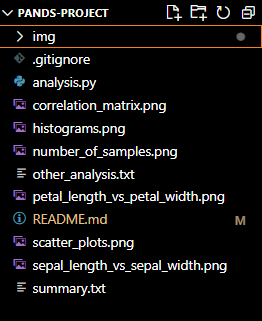
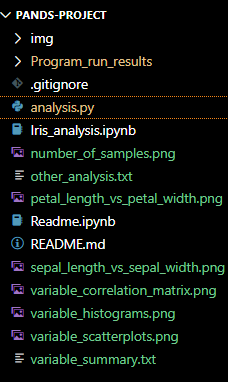
Improving the main code,  Editing the README file

diff --git a/analysis.py b/analysis.py
@@ -17,10 +17,18 @@ data.columns = ['sepal_length', 'sepal_width', 'petal_length', 'petal_width', 's
 ## Define a color palette
 palette = {'setosa': 'red', 'versicolor': 'green', 'virginica': 'blue'}                      # Define colors for each species using dictionary.
 
-## Save a summary of each variable to a text file.
+## Save a summary of each variable (combined and separate) to a text file.
 with open('variable_summary.txt', 'w') as f:                  # Generates a file named 'variable_summary.txt' on write mode.
-    f.write('Summary of each variable:\n\n')                  # Write a header to the file.
+    f.write('**** Iris Data Set Analysis ****\n\n')           # Write a header to the file.
+    f.write('Overall Summary:\n\n')                           # Write a header to the file.
     f.write(data.describe().to_string())                      # Write the summary statistics to the file.
+    f.write('\n\nSummary Of Each Variable:\n\n')              # Write a header to the file.
+    for column in data.columns[:-1]:                          # Iterate over each feature (column) in data DataFrame.
+        f.write('Variable: {}\n'.format(column))                         # Write the name of the variable to the file.
+        f.write('Minimum value: {}\n'.format(data[column].min()))        # Write the minimum value of the variable to the file.
+        f.write('Maximum value: {}\n'.format(data[column].max()))        # Write the maximum value of the variable to the file.
+        f.write('Mean value: {}\n'.format(data[column].mean()))          # Write the mean value of the variable to the file.
+        f.write('Standard deviation: {}\n\n'.format(data[column].std())) # Write the standard deviation value of the variable to the file.
 
 ## Save a histogram (colors for each species) of each variable to a png file.
 fig, axes = plt.subplots(2, 2, figsize=(10,10))               # Create a 2x2 grid of subplots.

diff --git a/README.md b/README.md
@@ -11,11 +11,11 @@ Author: Galal Abdelaziz
 
 ***
 
-### Introduction:
+### Summary:
 
 The __Iris dataset__ is one of the most well-known and commonly used datasets in the field of machine learning and statistics. Here's an overview:
 
-* The Iris dataset consists of __150 samples__ of iris flowers from three different species: __Setosa__, __Versicolor__, and __Virginica__.
+* The Iris dataset consists of __150 samples__ of iris flowers from three different species: [Setosa](https://en.wikipedia.org/wiki/Iris_setosa), [Versicolor](https://en.wikipedia.org/wiki/Iris_versicolor), and [Virginica](https://en.wikipedia.org/wiki/Iris_virginica).
 
 * Each sample includes __four features__:
 
@@ -34,7 +34,7 @@ The target variable represents the species of the iris flower and has three clas
 
 * Notes:
 
-    * The dataset was introduced by the British biologist and statistician __Ronald Fisher__ in 1936 as an example of __discriminant analysis__.
+    * The dataset was introduced by the British biologist and statistician [Ronald Fisher](https://en.wikipedia.org/wiki/Ronald_Fisher) in 1936 as an example of [discriminant analysis](https://en.wikipedia.org/wiki/Linear_discriminant_analysis).
     * Researchers and data scientists use the features of the iris flowers to classify each sample into one of the three species.
     * The dataset is particularly popular due to its __simplicity__ and the __clear separation__ of the different species based on the provided features.
 
@@ -46,7 +46,7 @@ The target variable represents the species of the iris flower and has three clas
 
 * Role in Machine Learning:
 
-    * The Iris dataset serves as a standard benchmark for testing __classification algorithms__.
+    * The Iris dataset serves as a standard benchmark for testing [classification algorithms](https://en.wikipedia.org/wiki/Statistical_classification#Algorithms).
     * Researchers use it to compare the performance of different algorithms and evaluate their accuracy, precision, and recall.
 
 ***
@@ -115,10 +115,10 @@ The Iris dataset contains two types of variables:
 
 ### Libraries:
 
-* __Pandas__: Imported the pandas library for data manipulation.
-* __Seaborn__: Imported the seaborn library for visualization.
-* __Matplotlib.pyplot__: Imported the matplotlib library for visualization.
-* __Warnings__: Imported the warnings library to suppress a warning message.
+* [Pandas](https://pandas.pydata.org): Imported the pandas library for data manipulation.
+* [Seaborn](https://seaborn.pydata.org): Imported the seaborn library for visualization.
+* [Matplotlib.pyplot](https://matplotlib.org/stable/tutorials/pyplot.html): Imported the matplotlib library for visualization.
+* [Warnings](https://docs.python.org/3/library/warnings.html): Imported the warnings library to suppress a warning message. 
 
 ***
 
@@ -130,7 +130,7 @@ The Iris dataset contains two types of variables:
 
 ### Running the program:
 
-* Clone the repository or download the "analysis.py" file to your computer.
+* Clone the repository or download the "analysis.py" file to your computer. (The dataset is preloaded via URL, so there's no need to download it separately.)
 
 ![Clone](img/clone.png)
 ![Download](img/download.png)
